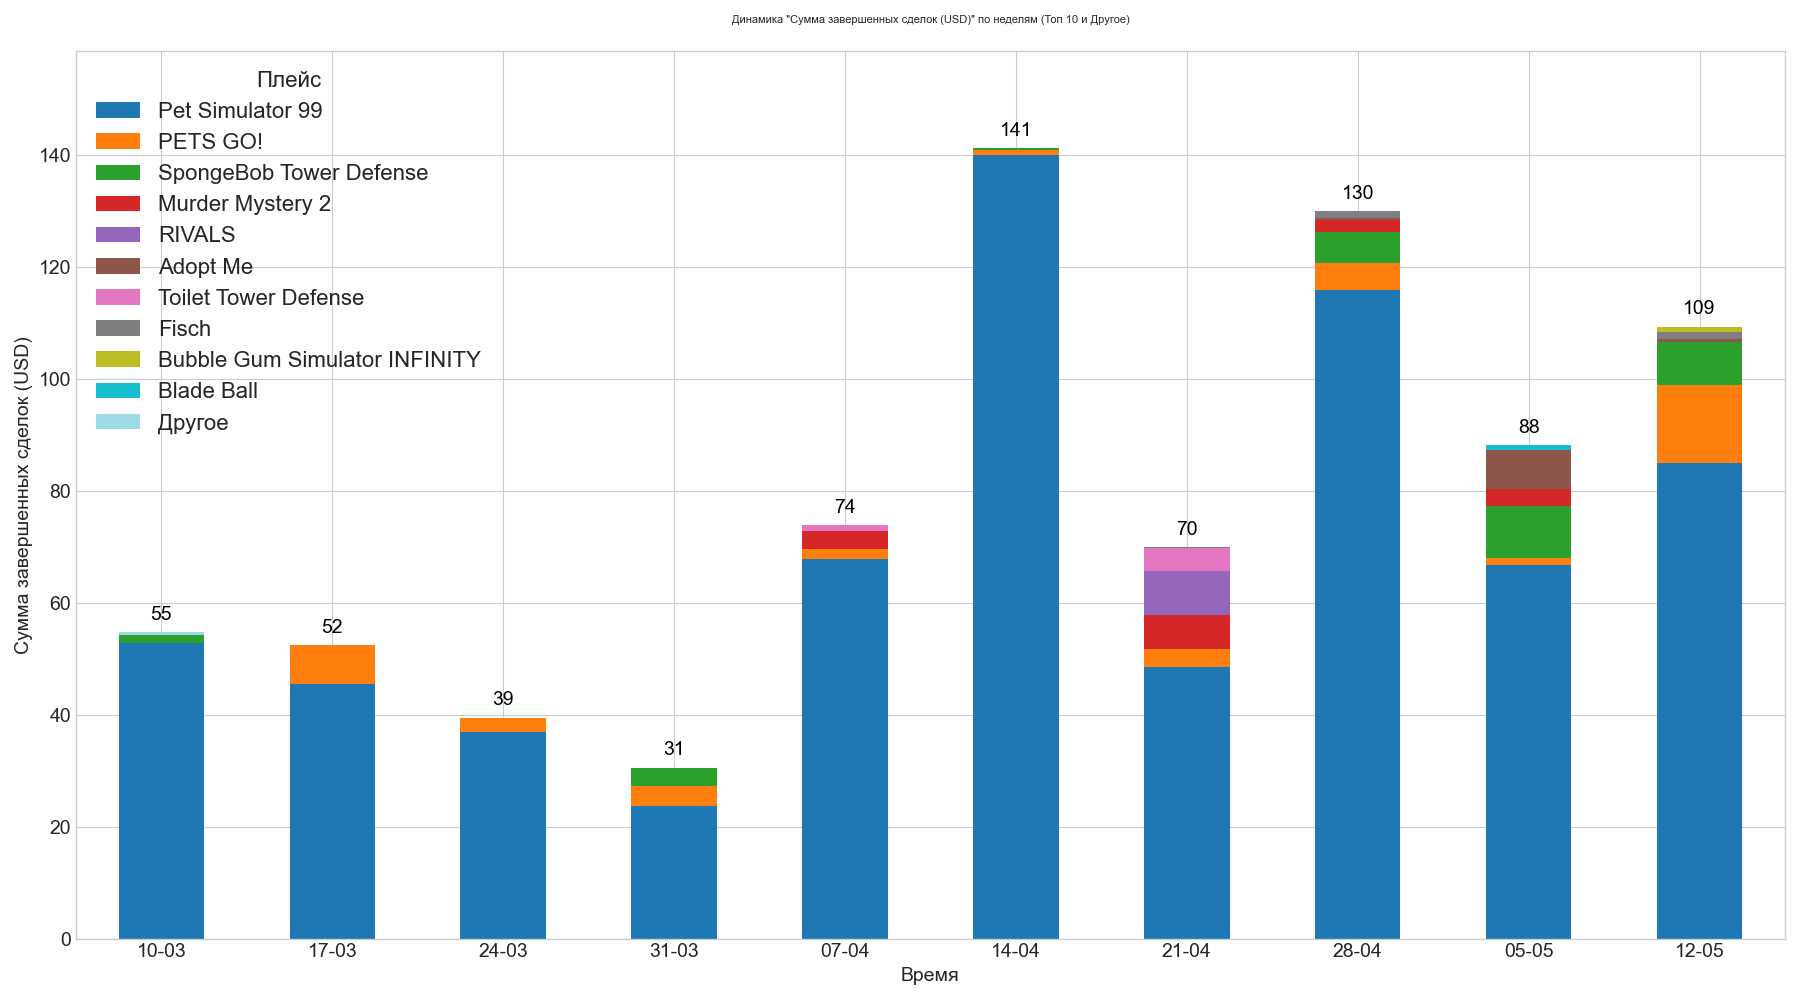
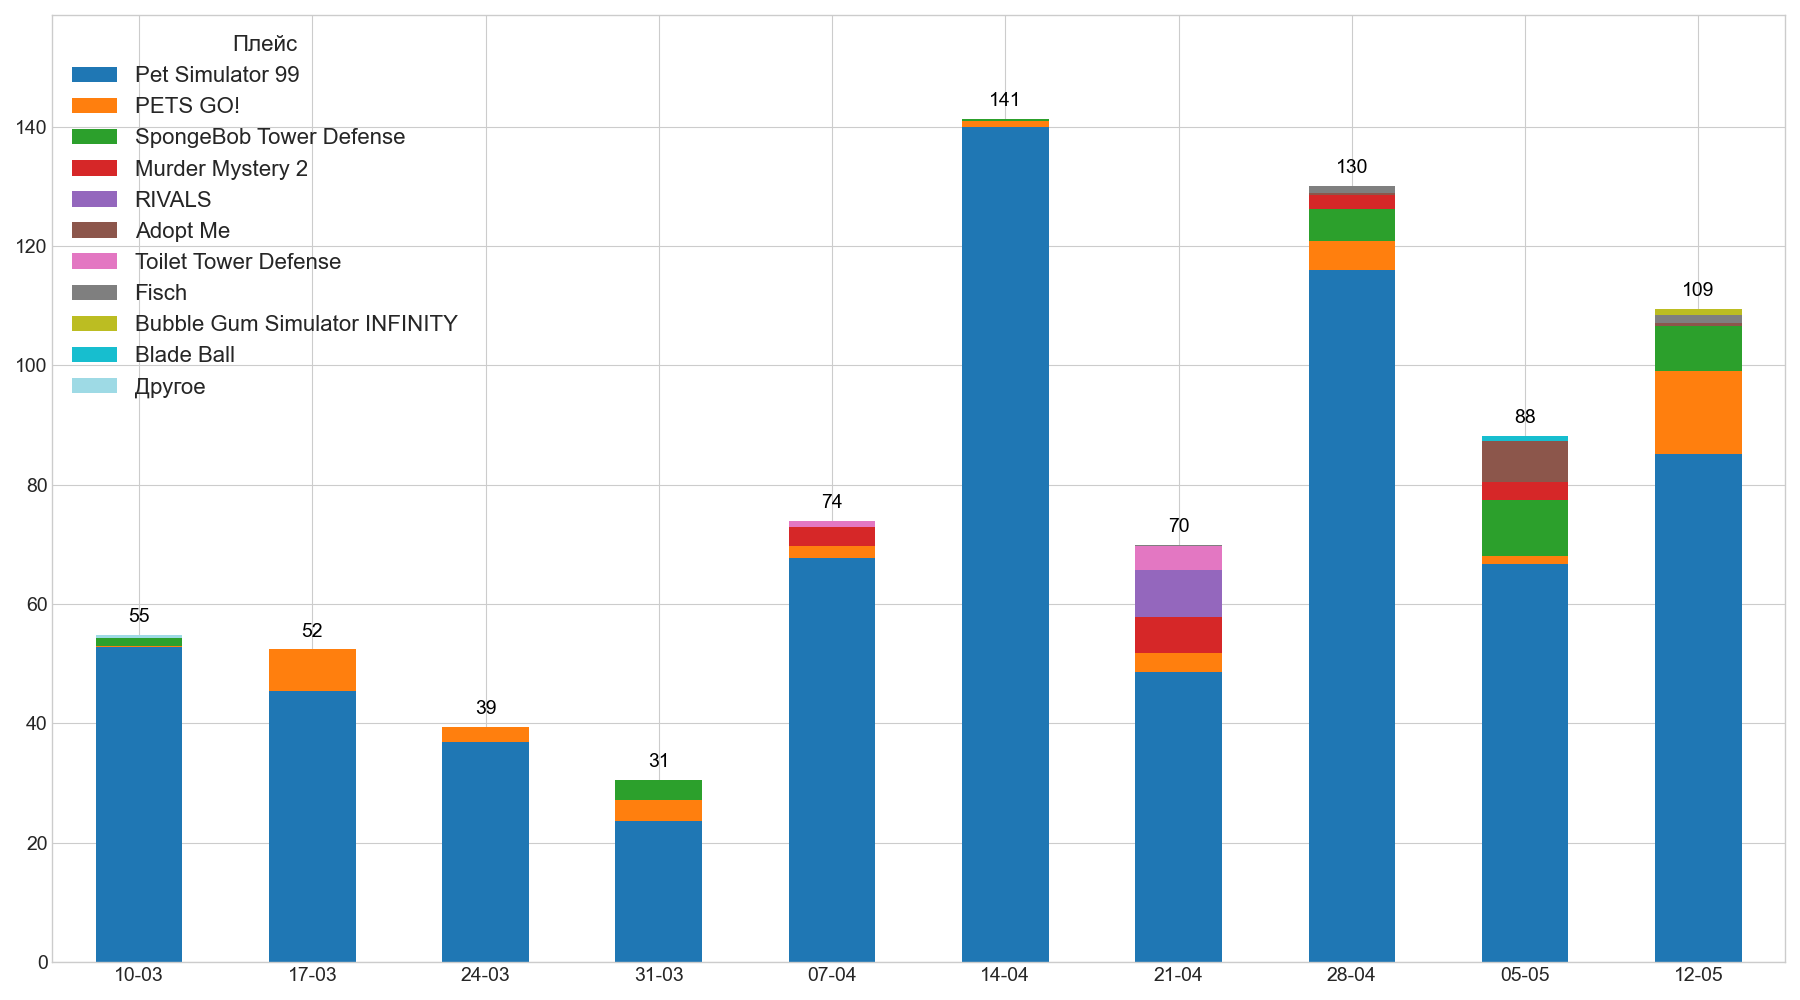
Stacked Bar Charts for Weekly Report. Remove unnecessary labels

diff --git a/transform_data.py b/transform_data.py
@@ -18,7 +18,7 @@ N_TOP_COLUMNS_FOR_CHART = 10
 AXIS_LABEL_FONTSIZE = 14
 AXIS_TICKS_FONTSIZE = 14
 LEGEND_FONTSIZE = 16
-TITLE_FONTSIZE = 8
+TITLE_FONTSIZE = 12
 BAR_LABEL_FONTSIZE = 14
 
 # Расположение легенды:
@@ -36,7 +36,7 @@ LEGEND_LOCATION = 'upper left'  # ИЗМЕНЕНИЕ: Вы можете поме
 # --------------------
 
 def generate_stacked_bar_chart(df_for_chart: pd.DataFrame, chart_filepath: Path,
-                               y_axis_label: str, original_time_col_name: str,
+                               y_axis_label: str, original_time_col_name: str, # original_time_col_name теперь не используется для xlabel
                                indicator_col_name_for_legend: str):
     if df_for_chart.empty:
         print(f"  Данные для графика '{chart_filepath.name}' пусты. График не будет создан.")
@@ -63,18 +63,21 @@ def generate_stacked_bar_chart(df_for_chart: pd.DataFrame, chart_filepath: Path,
 
     ax = df_plot.plot(kind='bar', stacked=True, figsize=(18, 10), colormap='tab20')
 
-    ax.set_xlabel(original_time_col_name, fontsize=AXIS_LABEL_FONTSIZE)
-    ax.set_ylabel(y_axis_label, fontsize=AXIS_LABEL_FONTSIZE)
-    ax.set_title(f"Динамика \"{y_axis_label}\" по неделям (Топ {N_TOP_COLUMNS_FOR_CHART} и Другое)",
-                 fontsize=TITLE_FONTSIZE, pad=20)
+    # Убираем или устанавливаем пустую метку для оси X
+    ax.set_xlabel("", fontsize=AXIS_LABEL_FONTSIZE) # <--- ИЗМЕНЕНИЕ: Установлена пустая строка
+
+    # Закомментированные строки для заголовка и метки Y, если они тоже не нужны:
+    # ax.set_ylabel(y_axis_label, fontsize=AXIS_LABEL_FONTSIZE)
+    # ax.set_title(f"Динамика \"{y_axis_label}\" по неделям (Топ {N_TOP_COLUMNS_FOR_CHART} и Другое)",
+    #              fontsize=TITLE_FONTSIZE, pad=20)
 
     formatter = mticker.FuncFormatter(lambda x, p: format(int(x), ','))
     ax.yaxis.set_major_formatter(formatter)
     ax.tick_params(axis='y', labelsize=AXIS_TICKS_FONTSIZE)
 
     ax.tick_params(axis='x', labelsize=AXIS_TICKS_FONTSIZE)
-    if len(df_plot.index) > 8:
-        plt.xticks(rotation=0, ha="center")
+    if len(df_plot.index) > 8: # Это условие можно подстроить
+        plt.xticks(rotation=0, ha="center") # Оставил rotation=0, как у вас
     else:
         plt.xticks(rotation=0)
 
@@ -86,7 +89,6 @@ def generate_stacked_bar_chart(df_for_chart: pd.DataFrame, chart_filepath: Path,
 
     legend_title = indicator_col_name_for_legend if indicator_col_name_for_legend else "Категории"
 
-    # ИЗМЕНЕНИЕ: Настройка легенды с использованием LEGEND_LOCATION
     legend_kwargs = {
         'title': legend_title,
         'fontsize': LEGEND_FONTSIZE,
@@ -96,7 +98,7 @@ def generate_stacked_bar_chart(df_for_chart: pd.DataFrame, chart_filepath: Path,
         legend_kwargs['loc'] = LEGEND_LOCATION
     elif isinstance(LEGEND_LOCATION, tuple):
         legend_kwargs['bbox_to_anchor'] = LEGEND_LOCATION
-        legend_kwargs['loc'] = 'upper left'  # Стандартный loc при использовании bbox_to_anchor
+        legend_kwargs['loc'] = 'upper left'
 
     leg = ax.legend(**legend_kwargs)
 
@@ -106,12 +108,8 @@ def generate_stacked_bar_chart(df_for_chart: pd.DataFrame, chart_filepath: Path,
     current_ylim = ax.get_ylim()
     ax.set_ylim(current_ylim[0], current_ylim[1] * 1.07)
 
-    # ИЗМЕНЕНИЕ: Корректировка tight_layout если легенда вынесена
     if isinstance(LEGEND_LOCATION, tuple):
-        # Если легенда вынесена (например, справа), нужно оставить для нее место
-        # rect=[left, bottom, right, top]
-        # Уменьшаем правый край, чтобы легенда поместилась
-        plt.tight_layout(rect=[0, 0, 0.88, 1])  # Пример, можно подстроить 0.88
+        plt.tight_layout(rect=[0, 0, 0.88, 1])
     else:
         plt.tight_layout()
 
